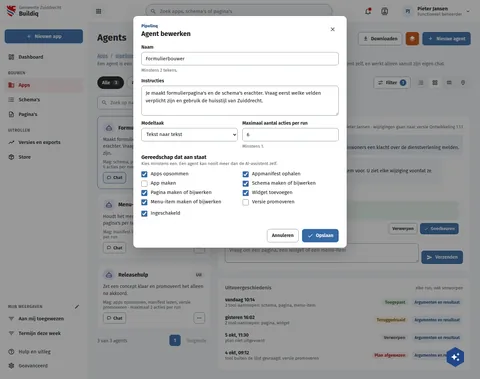
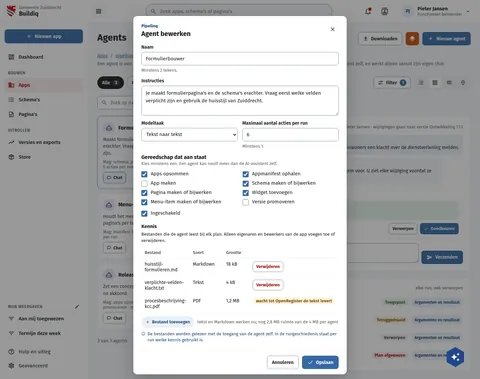
feat(screens): knowledge files on BqAgentBewerken
Rows: ai-agent-knowledge-base.

Assisted-by: ClaudeCode:claude-fable-5-1

Changed region(s): [[0.25, 0.5805, 0.75, 1.0]]

diff --git a/preview/screens/boards/BqAgentBewerken.html b/preview/screens/boards/BqAgentBewerken.html
@@ -159,6 +159,7 @@ a{color:var(--sc-primary, #3669a5)}a:hover{color:var(--sc-primary-deep, #234a78)
         <button type="button" aria-label="Sluiten" style="flex: none; width: 36px; height: 36px; border: 0; border-radius: 18px; background: transparent; color: var(--sc-work-text, #3d4047); display: flex; align-items: center; justify-content: center; padding: 0"><svg width="20" height="20" viewbox="0 0 24 24" fill="currentColor" aria-hidden="true"><path d="M19,6.41L17.59,5L12,10.59L6.41,5L5,6.41L10.59,12L5,17.59L6.41,19L12,13.41L17.59,19L19,17.59L13.41,12L19,6.41Z"></path></svg></button>
       </div>
       <div style="padding: 16px 24px 20px; display: flex; flex-direction: column; gap: 16px"><div style="display: flex; flex-direction: column; gap: 14px; min-width: 0"><div style="display: flex; flex-direction: column; gap: 6px; min-width: 0; flex: 1 1 100%"><label for="f26" style="font-size: 14px; font-weight: 600">Naam</label><input id="f26" type="text" value="Formulierbouwer" style="box-sizing: border-box; width: 100%; border: 1px solid var(--sc-work-field, #828a95); border-radius: 8px; padding: 0 12px; font: 400 15px var(--sc-font, 'Fira Sans'), sans-serif; color: var(--sc-work-ink, #1b1c1d); background: #ffffff; height: 40px"><span style="font-size: 13px; color: var(--sc-work-muted, #5e6168); line-height: 1.4">Minstens 2 tekens.</span></div><div style="display: flex; flex-direction: column; gap: 6px; min-width: 0"><label for="f27" style="font-size: 14px; font-weight: 600">Instructies</label><textarea id="f27" rows="3" style="box-sizing: border-box; width: 100%; border: 1px solid var(--sc-work-field, #828a95); border-radius: 8px; padding: 10px 12px; font: 400 15px var(--sc-font, 'Fira Sans'), sans-serif; color: var(--sc-work-ink, #1b1c1d); background: #ffffff; line-height: 1.5; resize: vertical">Je maakt formulierpagina's en de schema's erachter. Vraag eerst welke velden verplicht zijn en gebruik de huisstijl van Zuiddrecht.</textarea></div><div style="display: flex; flex-wrap: wrap; gap: 14px; align-items: flex-start"><div style="display: flex; flex-direction: column; gap: 6px; min-width: 0; flex: 1 1 200px"><label for="f28" style="font-size: 14px; font-weight: 600">Modeltaak</label><select id="f28" style="box-sizing: border-box; width: 100%; border: 1px solid var(--sc-work-field, #828a95); border-radius: 8px; padding: 0 10px; font: 400 15px var(--sc-font, 'Fira Sans'), sans-serif; color: var(--sc-work-ink, #1b1c1d); background: #ffffff; height: 40px"><option>Tekst naar tekst</option></select></div><div style="display: flex; flex-direction: column; gap: 6px; min-width: 0; flex: 1 1 200px"><label for="f29" style="font-size: 14px; font-weight: 600">Maximaal aantal acties per run</label><input id="f29" type="text" value="6" style="box-sizing: border-box; width: 100%; border: 1px solid var(--sc-work-field, #828a95); border-radius: 8px; padding: 0 12px; font: 400 15px var(--sc-font, 'Fira Sans'), sans-serif; color: var(--sc-work-ink, #1b1c1d); background: #ffffff; height: 40px"><span style="font-size: 13px; color: var(--sc-work-muted, #5e6168); line-height: 1.4">Minstens 1.</span></div></div><div><h3 style="margin: 0; font-size: 16px; font-weight: 700">Gereedschap dat aan staat</h3><p style="margin: 2px 0 0; font-size: 13px; color: var(--sc-work-muted, #5e6168)">Kies minstens een. Een agent kan nooit meer dan de AI-assistent zelf.</p></div><div style="display: grid; grid-template-columns: repeat(auto-fill, minmax(240px, 1fr)); gap: 8px 16px"><div style="display: flex; gap: 10px; align-items: flex-start"><input id="f30" type="checkbox" checked style="width: 18px; height: 18px; margin: 2px 0 0; accent-color: var(--sc-primary, #3669a5); flex: none"><span style="display: flex; flex-direction: column; gap: 2px"><label for="f30" style="font-size: 15px">Apps opsommen</label></span></div><div style="display: flex; gap: 10px; align-items: flex-start"><input id="f31" type="checkbox" checked style="width: 18px; height: 18px; margin: 2px 0 0; accent-color: var(--sc-primary, #3669a5); flex: none"><span style="display: flex; flex-direction: column; gap: 2px"><label for="f31" style="font-size: 15px">Appmanifest ophalen</label></span></div><div style="display: flex; gap: 10px; align-items: flex-start"><input id="f32" type="checkbox" style="width: 18px; height: 18px; margin: 2px 0 0; accent-color: var(--sc-primary, #3669a5); flex: none"><span style="display: flex; flex-direction: column; gap: 2px"><label for="f32" style="font-size: 15px">App maken</label></span></div><div style="display: flex; gap: 10px; align-items: flex-start"><input id="f33" type="checkbox" checked style="width: 18px; height: 18px; margin: 2px 0 0; accent-color: var(--sc-primary, #3669a5); flex: none"><span style="display: flex; flex-direction: column; gap: 2px"><label for="f33" style="font-size: 15px">Schema maken of bijwerken</label></span></div><div style="display: flex; gap: 10px; align-items: flex-start"><input id="f34" type="checkbox" checked style="width: 18px; height: 18px; margin: 2px 0 0; accent-color: var(--sc-primary, #3669a5); flex: none"><span style="display: flex; flex-direction: column; gap: 2px"><label for="f34" style="font-size: 15px">Pagina maken of bijwerken</label></span></div><div style="display: flex; gap: 10px; align-items: flex-start"><input id="f35" type="checkbox" checked style="width: 18px; height: 18px; margin: 2px 0 0; accent-color: var(--sc-primary, #3669a5); flex: none"><span style="display: flex; flex-direction: column; gap: 2px"><label for="f35" style="font-size: 15px">Widget toevoegen</label></span></div><div style="display: flex; gap: 10px; align-items: flex-start"><input id="f36" type="checkbox" checked style="width: 18px; height: 18px; margin: 2px 0 0; accent-color: var(--sc-primary, #3669a5); flex: none"><span style="display: flex; flex-direction: column; gap: 2px"><label for="f36" style="font-size: 15px">Menu-item maken of bijwerken</label></span></div><div style="display: flex; gap: 10px; align-items: flex-start"><input id="f37" type="checkbox" style="width: 18px; height: 18px; margin: 2px 0 0; accent-color: var(--sc-primary, #3669a5); flex: none"><span style="display: flex; flex-direction: column; gap: 2px"><label for="f37" style="font-size: 15px">Versie promoveren</label></span></div></div><div style="display: flex; gap: 10px; align-items: flex-start"><input id="f38" type="checkbox" checked style="width: 18px; height: 18px; margin: 2px 0 0; accent-color: var(--sc-primary, #3669a5); flex: none"><span style="display: flex; flex-direction: column; gap: 2px"><label for="f38" style="font-size: 15px">Ingeschakeld</label></span></div></div></div>
+      <div style="padding: 0 24px 20px; display: flex; flex-direction: column; gap: 16px"><fieldset style="border: 0; margin: 0; padding: 0; display: flex; flex-direction: column; gap: 10px"><legend style="font-size: 15px; font-weight: 700; padding: 0 0 6px">Kennis</legend><p style="margin: 0; font-size: 13px; line-height: 1.45">Bestanden die de agent leest bij elk plan. Alleen eigenaren en bewerkers van de app voegen toe of verwijderen.</p><table style="width: 100%; border-collapse: collapse"><thead><tr><th scope="col" style="text-align: left; padding: 8px 10px; font-size: 13px; color: var(--sc-work-muted, #5e6168); font-weight: 600; border-bottom: 1px solid var(--sc-work-line, #e4e6ea)">Bestand</th><th scope="col" style="text-align: left; padding: 8px 10px; font-size: 13px; color: var(--sc-work-muted, #5e6168); font-weight: 600; border-bottom: 1px solid var(--sc-work-line, #e4e6ea); width: 110px">Soort</th><th scope="col" style="text-align: left; padding: 8px 10px; font-size: 13px; color: var(--sc-work-muted, #5e6168); font-weight: 600; border-bottom: 1px solid var(--sc-work-line, #e4e6ea); width: 90px">Grootte</th><th scope="col" style="text-align: left; padding: 8px 10px; font-size: 13px; color: var(--sc-work-muted, #5e6168); font-weight: 600; border-bottom: 1px solid var(--sc-work-line, #e4e6ea); width: 150px"></th></tr></thead><tbody><tr><td style="padding: 10px 10px; font-size: 14px; border-bottom: 1px solid var(--sc-work-soft, #eef0f3); vertical-align: top">huisstijl-formulieren.md</td><td style="padding: 10px 10px; font-size: 14px; border-bottom: 1px solid var(--sc-work-soft, #eef0f3); vertical-align: top">Markdown</td><td style="padding: 10px 10px; font-size: 14px; border-bottom: 1px solid var(--sc-work-soft, #eef0f3); vertical-align: top">18 kB</td><td style="padding: 10px 10px; font-size: 14px; border-bottom: 1px solid var(--sc-work-soft, #eef0f3); vertical-align: top"><button type="button" style="display: inline-flex; align-items: center; gap: 6px; height: 32px; padding: 0 10px; border: 1px solid var(--sc-work-field, #828a95); border-radius: 8px; background: #ffffff; font: 600 13px var(--sc-font, 'Fira Sans'), sans-serif; color: var(--sc-work-ink, #1b1c1d); white-space: nowrap; color: var(--sc-accent-deep, #a30000)">Verwijderen</button></td></tr><tr><td style="padding: 10px 10px; font-size: 14px; border-bottom: 1px solid var(--sc-work-soft, #eef0f3); vertical-align: top">verplichte-velden-klacht.txt</td><td style="padding: 10px 10px; font-size: 14px; border-bottom: 1px solid var(--sc-work-soft, #eef0f3); vertical-align: top">Tekst</td><td style="padding: 10px 10px; font-size: 14px; border-bottom: 1px solid var(--sc-work-soft, #eef0f3); vertical-align: top">4 kB</td><td style="padding: 10px 10px; font-size: 14px; border-bottom: 1px solid var(--sc-work-soft, #eef0f3); vertical-align: top"><button type="button" style="display: inline-flex; align-items: center; gap: 6px; height: 32px; padding: 0 10px; border: 1px solid var(--sc-work-field, #828a95); border-radius: 8px; background: #ffffff; font: 600 13px var(--sc-font, 'Fira Sans'), sans-serif; color: var(--sc-work-ink, #1b1c1d); white-space: nowrap; color: var(--sc-accent-deep, #a30000)">Verwijderen</button></td></tr><tr><td style="padding: 10px 10px; font-size: 14px; border-bottom: 1px solid var(--sc-work-soft, #eef0f3); vertical-align: top">procesbeschrijving-kcc.pdf</td><td style="padding: 10px 10px; font-size: 14px; border-bottom: 1px solid var(--sc-work-soft, #eef0f3); vertical-align: top">PDF</td><td style="padding: 10px 10px; font-size: 14px; border-bottom: 1px solid var(--sc-work-soft, #eef0f3); vertical-align: top">1,2 MB</td><td style="padding: 10px 10px; font-size: 14px; border-bottom: 1px solid var(--sc-work-soft, #eef0f3); vertical-align: top"><span style="padding: 3px 10px; border-radius: 12px; background: #fff4de; color: #7a4f00; font-size: 13px; font-weight: 600; white-space: nowrap">wacht tot OpenRegister de tekst levert</span></td></tr></tbody></table><div style="display: flex; flex-wrap: wrap; gap: 10px; align-items: center"><button type="button" style="align-self: flex-start; display: inline-flex; align-items: center; gap: 6px; height: 34px; padding: 0 12px; border: 0; border-radius: 17px; background: var(--sc-primary-light, #eaf0f7); color: var(--sc-primary-deep, #234a78); font: 600 13px var(--sc-font, 'Fira Sans'), sans-serif; white-space: nowrap"><svg width="14" height="14" viewbox="0 0 24 24" fill="currentColor"><path d="M19,13H13V19H11V13H5V11H11V5H13V11H19V13Z"></path></svg>Bestand toevoegen</button><span style="font-size: 13px; color: var(--sc-work-muted, #5e6168)">tekst en Markdown werken nu; nog 2,8 MB ruimte van de 4 MB per agent</span></div><div style="display: flex; gap: 6px; align-items: flex-start; font-size: 13px; line-height: 1.45; color: var(--sc-primary-deep, #234a78)"><svg width="16" height="16" viewbox="0 0 24 24" fill="currentColor"><path d="M11,9H13V7H11M12,20C7.59,20 4,16.41 4,12C4,7.59 7.59,4 12,4C16.41,4 20,7.59 20,12C20,16.41 16.41,20 12,20M12,2A10,10 0 0,0 2,12A10,10 0 0,0 12,22A10,10 0 0,0 22,12A10,10 0 0,0 12,2M11,17H13V11H11V17Z"></path></svg><span>De bestanden worden gelezen met de toegang van de agent zelf. In de rungeschiedenis staat per run welke kennis gebruikt is.</span></div></fieldset></div>
       <div style="display: flex; flex-wrap: wrap; justify-content: flex-end; align-items: center; gap: 10px; padding: 16px 24px; border-top: 1px solid var(--sc-work-soft, #eef0f3)"><button type="button" style="display: inline-flex; align-items: center; gap: 8px; height: 40px; padding: 0 14px; box-sizing: border-box; border: 1px solid var(--sc-work-field, #828a95); border-radius: 8px; background: #ffffff; font: 600 14px var(--sc-font, 'Fira Sans'), sans-serif; color: var(--sc-work-ink, #1b1c1d); white-space: nowrap">Annuleren</button><button type="button" style="display: inline-flex; align-items: center; gap: 8px; height: 40px; padding: 0 16px; border: 0; border-radius: 8px; background: var(--sc-primary, #3669a5); color: #ffffff; font: 600 14px var(--sc-font, 'Fira Sans'), sans-serif; white-space: nowrap"><svg width="18" height="18" viewbox="0 0 24 24" fill="currentColor" aria-hidden="true"><path d="M21,7L9,19L3.5,13.5L4.91,12.09L9,16.17L19.59,5.59L21,7Z"></path></svg>Opslaan</button></div>
     </div>
   </div>

diff --git a/screens-src/zuiddrecht/BqAgentBewerken.dc.html b/screens-src/zuiddrecht/BqAgentBewerken.dc.html
@@ -52,12 +52,13 @@ a{color:#3669a5}a:hover{color:#234a78}
         <button type="button" aria-label="Sluiten" style="flex: none; width: 36px; height: 36px; border: 0; border-radius: 18px; background: transparent; color: #3d4047; display: flex; align-items: center; justify-content: center; padding: 0"><svg width="20" height="20" viewBox="0 0 24 24" fill="currentColor" aria-hidden="true"><path d="M19,6.41L17.59,5L12,10.59L6.41,5L5,6.41L10.59,12L5,17.59L6.41,19L12,13.41L17.59,19L19,17.59L13.41,12L19,6.41Z"></path></svg></button>
       </div>
       <div style="padding: 16px 24px 20px; display: flex; flex-direction: column; gap: 16px"><div style="display: flex; flex-direction: column; gap: 14px; min-width: 0"><div style="display: flex; flex-direction: column; gap: 6px; min-width: 0; flex: 1 1 100%"><label for="f26" style="font-size: 14px; font-weight: 600">Naam</label><input id="f26" type="text" value="Formulierbouwer" style="box-sizing: border-box; width: 100%; border: 1px solid #828a95; border-radius: 8px; padding: 0 12px; font: 400 15px 'Fira Sans', sans-serif; color: #1b1c1d; background: #ffffff; height: 40px"><span style="font-size: 13px; color: #5e6168; line-height: 1.4">Minstens 2 tekens.</span></div><div style="display: flex; flex-direction: column; gap: 6px; min-width: 0"><label for="f27" style="font-size: 14px; font-weight: 600">Instructies</label><textarea id="f27" rows="3" style="box-sizing: border-box; width: 100%; border: 1px solid #828a95; border-radius: 8px; padding: 10px 12px; font: 400 15px 'Fira Sans', sans-serif; color: #1b1c1d; background: #ffffff; line-height: 1.5; resize: vertical">Je maakt formulierpagina's en de schema's erachter. Vraag eerst welke velden verplicht zijn en gebruik de huisstijl van Zuiddrecht.</textarea></div><div style="display: flex; flex-wrap: wrap; gap: 14px; align-items: flex-start"><div style="display: flex; flex-direction: column; gap: 6px; min-width: 0; flex: 1 1 200px"><label for="f28" style="font-size: 14px; font-weight: 600">Modeltaak</label><select id="f28" style="box-sizing: border-box; width: 100%; border: 1px solid #828a95; border-radius: 8px; padding: 0 10px; font: 400 15px 'Fira Sans', sans-serif; color: #1b1c1d; background: #ffffff; height: 40px"><option>Tekst naar tekst</option></select></div><div style="display: flex; flex-direction: column; gap: 6px; min-width: 0; flex: 1 1 200px"><label for="f29" style="font-size: 14px; font-weight: 600">Maximaal aantal acties per run</label><input id="f29" type="text" value="6" style="box-sizing: border-box; width: 100%; border: 1px solid #828a95; border-radius: 8px; padding: 0 12px; font: 400 15px 'Fira Sans', sans-serif; color: #1b1c1d; background: #ffffff; height: 40px"><span style="font-size: 13px; color: #5e6168; line-height: 1.4">Minstens 1.</span></div></div><div><h3 style="margin: 0; font-size: 16px; font-weight: 700">Gereedschap dat aan staat</h3><p style="margin: 2px 0 0; font-size: 13px; color: #5e6168">Kies minstens een. Een agent kan nooit meer dan de AI-assistent zelf.</p></div><div style="display: grid; grid-template-columns: repeat(auto-fill, minmax(240px, 1fr)); gap: 8px 16px"><div style="display: flex; gap: 10px; align-items: flex-start"><input id="f30" type="checkbox" checked style="width: 18px; height: 18px; margin: 2px 0 0; accent-color: #3669a5; flex: none"><span style="display: flex; flex-direction: column; gap: 2px"><label for="f30" style="font-size: 15px">Apps opsommen</label></span></div><div style="display: flex; gap: 10px; align-items: flex-start"><input id="f31" type="checkbox" checked style="width: 18px; height: 18px; margin: 2px 0 0; accent-color: #3669a5; flex: none"><span style="display: flex; flex-direction: column; gap: 2px"><label for="f31" style="font-size: 15px">Appmanifest ophalen</label></span></div><div style="display: flex; gap: 10px; align-items: flex-start"><input id="f32" type="checkbox" style="width: 18px; height: 18px; margin: 2px 0 0; accent-color: #3669a5; flex: none"><span style="display: flex; flex-direction: column; gap: 2px"><label for="f32" style="font-size: 15px">App maken</label></span></div><div style="display: flex; gap: 10px; align-items: flex-start"><input id="f33" type="checkbox" checked style="width: 18px; height: 18px; margin: 2px 0 0; accent-color: #3669a5; flex: none"><span style="display: flex; flex-direction: column; gap: 2px"><label for="f33" style="font-size: 15px">Schema maken of bijwerken</label></span></div><div style="display: flex; gap: 10px; align-items: flex-start"><input id="f34" type="checkbox" checked style="width: 18px; height: 18px; margin: 2px 0 0; accent-color: #3669a5; flex: none"><span style="display: flex; flex-direction: column; gap: 2px"><label for="f34" style="font-size: 15px">Pagina maken of bijwerken</label></span></div><div style="display: flex; gap: 10px; align-items: flex-start"><input id="f35" type="checkbox" checked style="width: 18px; height: 18px; margin: 2px 0 0; accent-color: #3669a5; flex: none"><span style="display: flex; flex-direction: column; gap: 2px"><label for="f35" style="font-size: 15px">Widget toevoegen</label></span></div><div style="display: flex; gap: 10px; align-items: flex-start"><input id="f36" type="checkbox" checked style="width: 18px; height: 18px; margin: 2px 0 0; accent-color: #3669a5; flex: none"><span style="display: flex; flex-direction: column; gap: 2px"><label for="f36" style="font-size: 15px">Menu-item maken of bijwerken</label></span></div><div style="display: flex; gap: 10px; align-items: flex-start"><input id="f37" type="checkbox" style="width: 18px; height: 18px; margin: 2px 0 0; accent-color: #3669a5; flex: none"><span style="display: flex; flex-direction: column; gap: 2px"><label for="f37" style="font-size: 15px">Versie promoveren</label></span></div></div><div style="display: flex; gap: 10px; align-items: flex-start"><input id="f38" type="checkbox" checked style="width: 18px; height: 18px; margin: 2px 0 0; accent-color: #3669a5; flex: none"><span style="display: flex; flex-direction: column; gap: 2px"><label for="f38" style="font-size: 15px">Ingeschakeld</label></span></div></div></div>
+      <div style="padding: 0 24px 20px; display: flex; flex-direction: column; gap: 16px"><fieldset style="border: 0; margin: 0; padding: 0; display: flex; flex-direction: column; gap: 10px"><legend style="font-size: 15px; font-weight: 700; padding: 0 0 6px">Kennis</legend><p style="margin: 0; font-size: 13px; line-height: 1.45">Bestanden die de agent leest bij elk plan. Alleen eigenaren en bewerkers van de app voegen toe of verwijderen.</p><table style="width: 100%; border-collapse: collapse"><thead><tr><th scope="col" style="text-align: left; padding: 8px 10px; font-size: 13px; color: #5e6168; font-weight: 600; border-bottom: 1px solid #e4e6ea">Bestand</th><th scope="col" style="text-align: left; padding: 8px 10px; font-size: 13px; color: #5e6168; font-weight: 600; border-bottom: 1px solid #e4e6ea; width: 110px">Soort</th><th scope="col" style="text-align: left; padding: 8px 10px; font-size: 13px; color: #5e6168; font-weight: 600; border-bottom: 1px solid #e4e6ea; width: 90px">Grootte</th><th scope="col" style="text-align: left; padding: 8px 10px; font-size: 13px; color: #5e6168; font-weight: 600; border-bottom: 1px solid #e4e6ea; width: 150px"></th></tr></thead><tbody><tr><td style="padding: 10px 10px; font-size: 14px; border-bottom: 1px solid #eef0f3; vertical-align: top">huisstijl-formulieren.md</td><td style="padding: 10px 10px; font-size: 14px; border-bottom: 1px solid #eef0f3; vertical-align: top">Markdown</td><td style="padding: 10px 10px; font-size: 14px; border-bottom: 1px solid #eef0f3; vertical-align: top">18 kB</td><td style="padding: 10px 10px; font-size: 14px; border-bottom: 1px solid #eef0f3; vertical-align: top"><button type="button" style="display: inline-flex; align-items: center; gap: 6px; height: 32px; padding: 0 10px; border: 1px solid #828a95; border-radius: 8px; background: #ffffff; font: 600 13px 'Fira Sans', sans-serif; color: #1b1c1d; white-space: nowrap; color: #a30000">Verwijderen</button></td></tr><tr><td style="padding: 10px 10px; font-size: 14px; border-bottom: 1px solid #eef0f3; vertical-align: top">verplichte-velden-klacht.txt</td><td style="padding: 10px 10px; font-size: 14px; border-bottom: 1px solid #eef0f3; vertical-align: top">Tekst</td><td style="padding: 10px 10px; font-size: 14px; border-bottom: 1px solid #eef0f3; vertical-align: top">4 kB</td><td style="padding: 10px 10px; font-size: 14px; border-bottom: 1px solid #eef0f3; vertical-align: top"><button type="button" style="display: inline-flex; align-items: center; gap: 6px; height: 32px; padding: 0 10px; border: 1px solid #828a95; border-radius: 8px; background: #ffffff; font: 600 13px 'Fira Sans', sans-serif; color: #1b1c1d; white-space: nowrap; color: #a30000">Verwijderen</button></td></tr><tr><td style="padding: 10px 10px; font-size: 14px; border-bottom: 1px solid #eef0f3; vertical-align: top">procesbeschrijving-kcc.pdf</td><td style="padding: 10px 10px; font-size: 14px; border-bottom: 1px solid #eef0f3; vertical-align: top">PDF</td><td style="padding: 10px 10px; font-size: 14px; border-bottom: 1px solid #eef0f3; vertical-align: top">1,2 MB</td><td style="padding: 10px 10px; font-size: 14px; border-bottom: 1px solid #eef0f3; vertical-align: top"><span style="padding: 3px 10px; border-radius: 12px; background: #fff4de; color: #7a4f00; font-size: 13px; font-weight: 600; white-space: nowrap">wacht tot OpenRegister de tekst levert</span></td></tr></tbody></table><div style="display: flex; flex-wrap: wrap; gap: 10px; align-items: center"><button type="button" style="align-self: flex-start; display: inline-flex; align-items: center; gap: 6px; height: 34px; padding: 0 12px; border: 0; border-radius: 17px; background: #eaf0f7; color: #234a78; font: 600 13px 'Fira Sans', sans-serif; white-space: nowrap"><svg width="14" height="14" viewBox="0 0 24 24" fill="currentColor"><path d="M19,13H13V19H11V13H5V11H11V5H13V11H19V13Z"></path></svg>Bestand toevoegen</button><span style="font-size: 13px; color: #5e6168">tekst en Markdown werken nu; nog 2,8 MB ruimte van de 4 MB per agent</span></div><div style="display: flex; gap: 6px; align-items: flex-start; font-size: 13px; line-height: 1.45; color: #234a78"><svg width="16" height="16" viewBox="0 0 24 24" fill="currentColor"><path d="M11,9H13V7H11M12,20C7.59,20 4,16.41 4,12C4,7.59 7.59,4 12,4C16.41,4 20,7.59 20,12C20,16.41 16.41,20 12,20M12,2A10,10 0 0,0 2,12A10,10 0 0,0 12,22A10,10 0 0,0 22,12A10,10 0 0,0 12,2M11,17H13V11H11V17Z"></path></svg><span>De bestanden worden gelezen met de toegang van de agent zelf. In de rungeschiedenis staat per run welke kennis gebruikt is.</span></div></fieldset></div>
       <div style="display: flex; flex-wrap: wrap; justify-content: flex-end; align-items: center; gap: 10px; padding: 16px 24px; border-top: 1px solid #eef0f3"><button type="button" style="display: inline-flex; align-items: center; gap: 8px; height: 40px; padding: 0 14px; box-sizing: border-box; border: 1px solid #828a95; border-radius: 8px; background: #ffffff; font: 600 14px 'Fira Sans', sans-serif; color: #1b1c1d; white-space: nowrap">Annuleren</button><button type="button" style="display: inline-flex; align-items: center; gap: 8px; height: 40px; padding: 0 16px; border: 0; border-radius: 8px; background: #3669a5; color: #ffffff; font: 600 14px 'Fira Sans', sans-serif; white-space: nowrap"><svg width="18" height="18" viewBox="0 0 24 24" fill="currentColor" aria-hidden="true"><path d="M21,7L9,19L3.5,13.5L4.91,12.09L9,16.17L19.59,5.59L21,7Z"></path></svg>Opslaan</button></div>
     </div>
   </div>
 </div>
 </x-dc>
-<script type="text/x-dc" data-dc-script data-props='{"$preview":{"width":1440,"height":1137}}'>
+<script type="text/x-dc" data-dc-script data-props='{"$preview":{"width":1440,"height":1500}}'>
 class Component extends DCLogic {
   renderVals() {
     const nav = [
